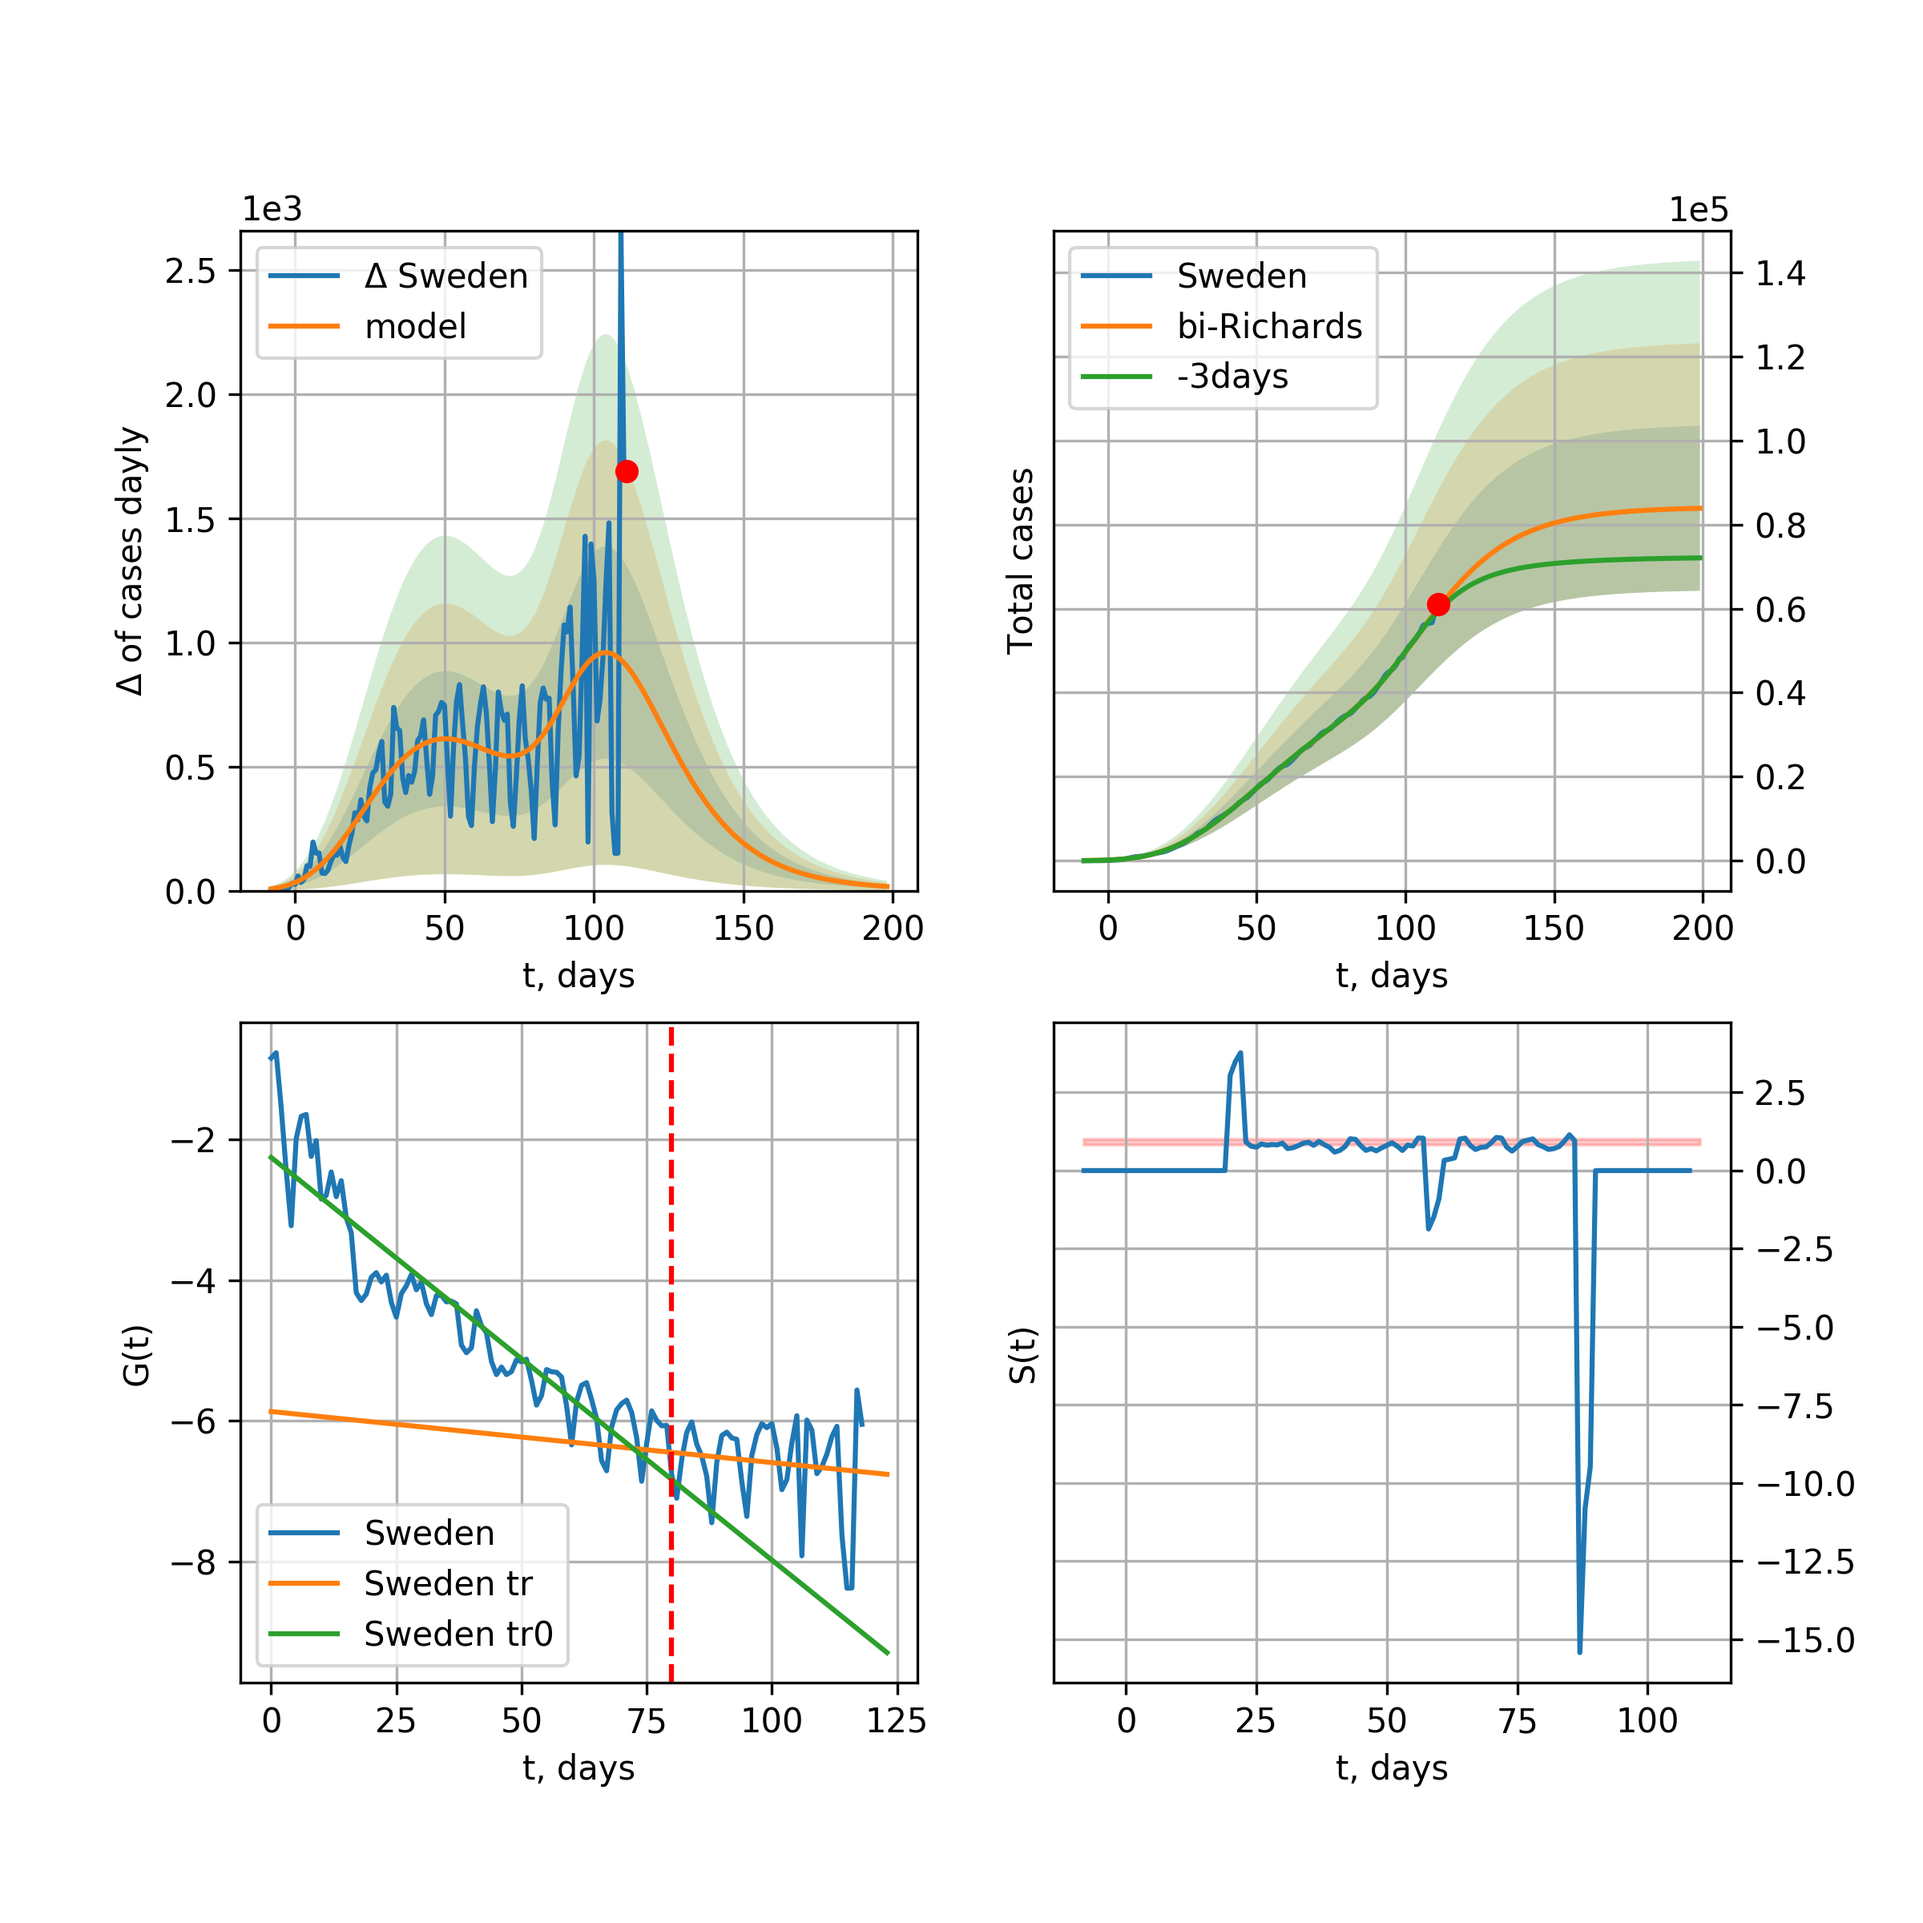
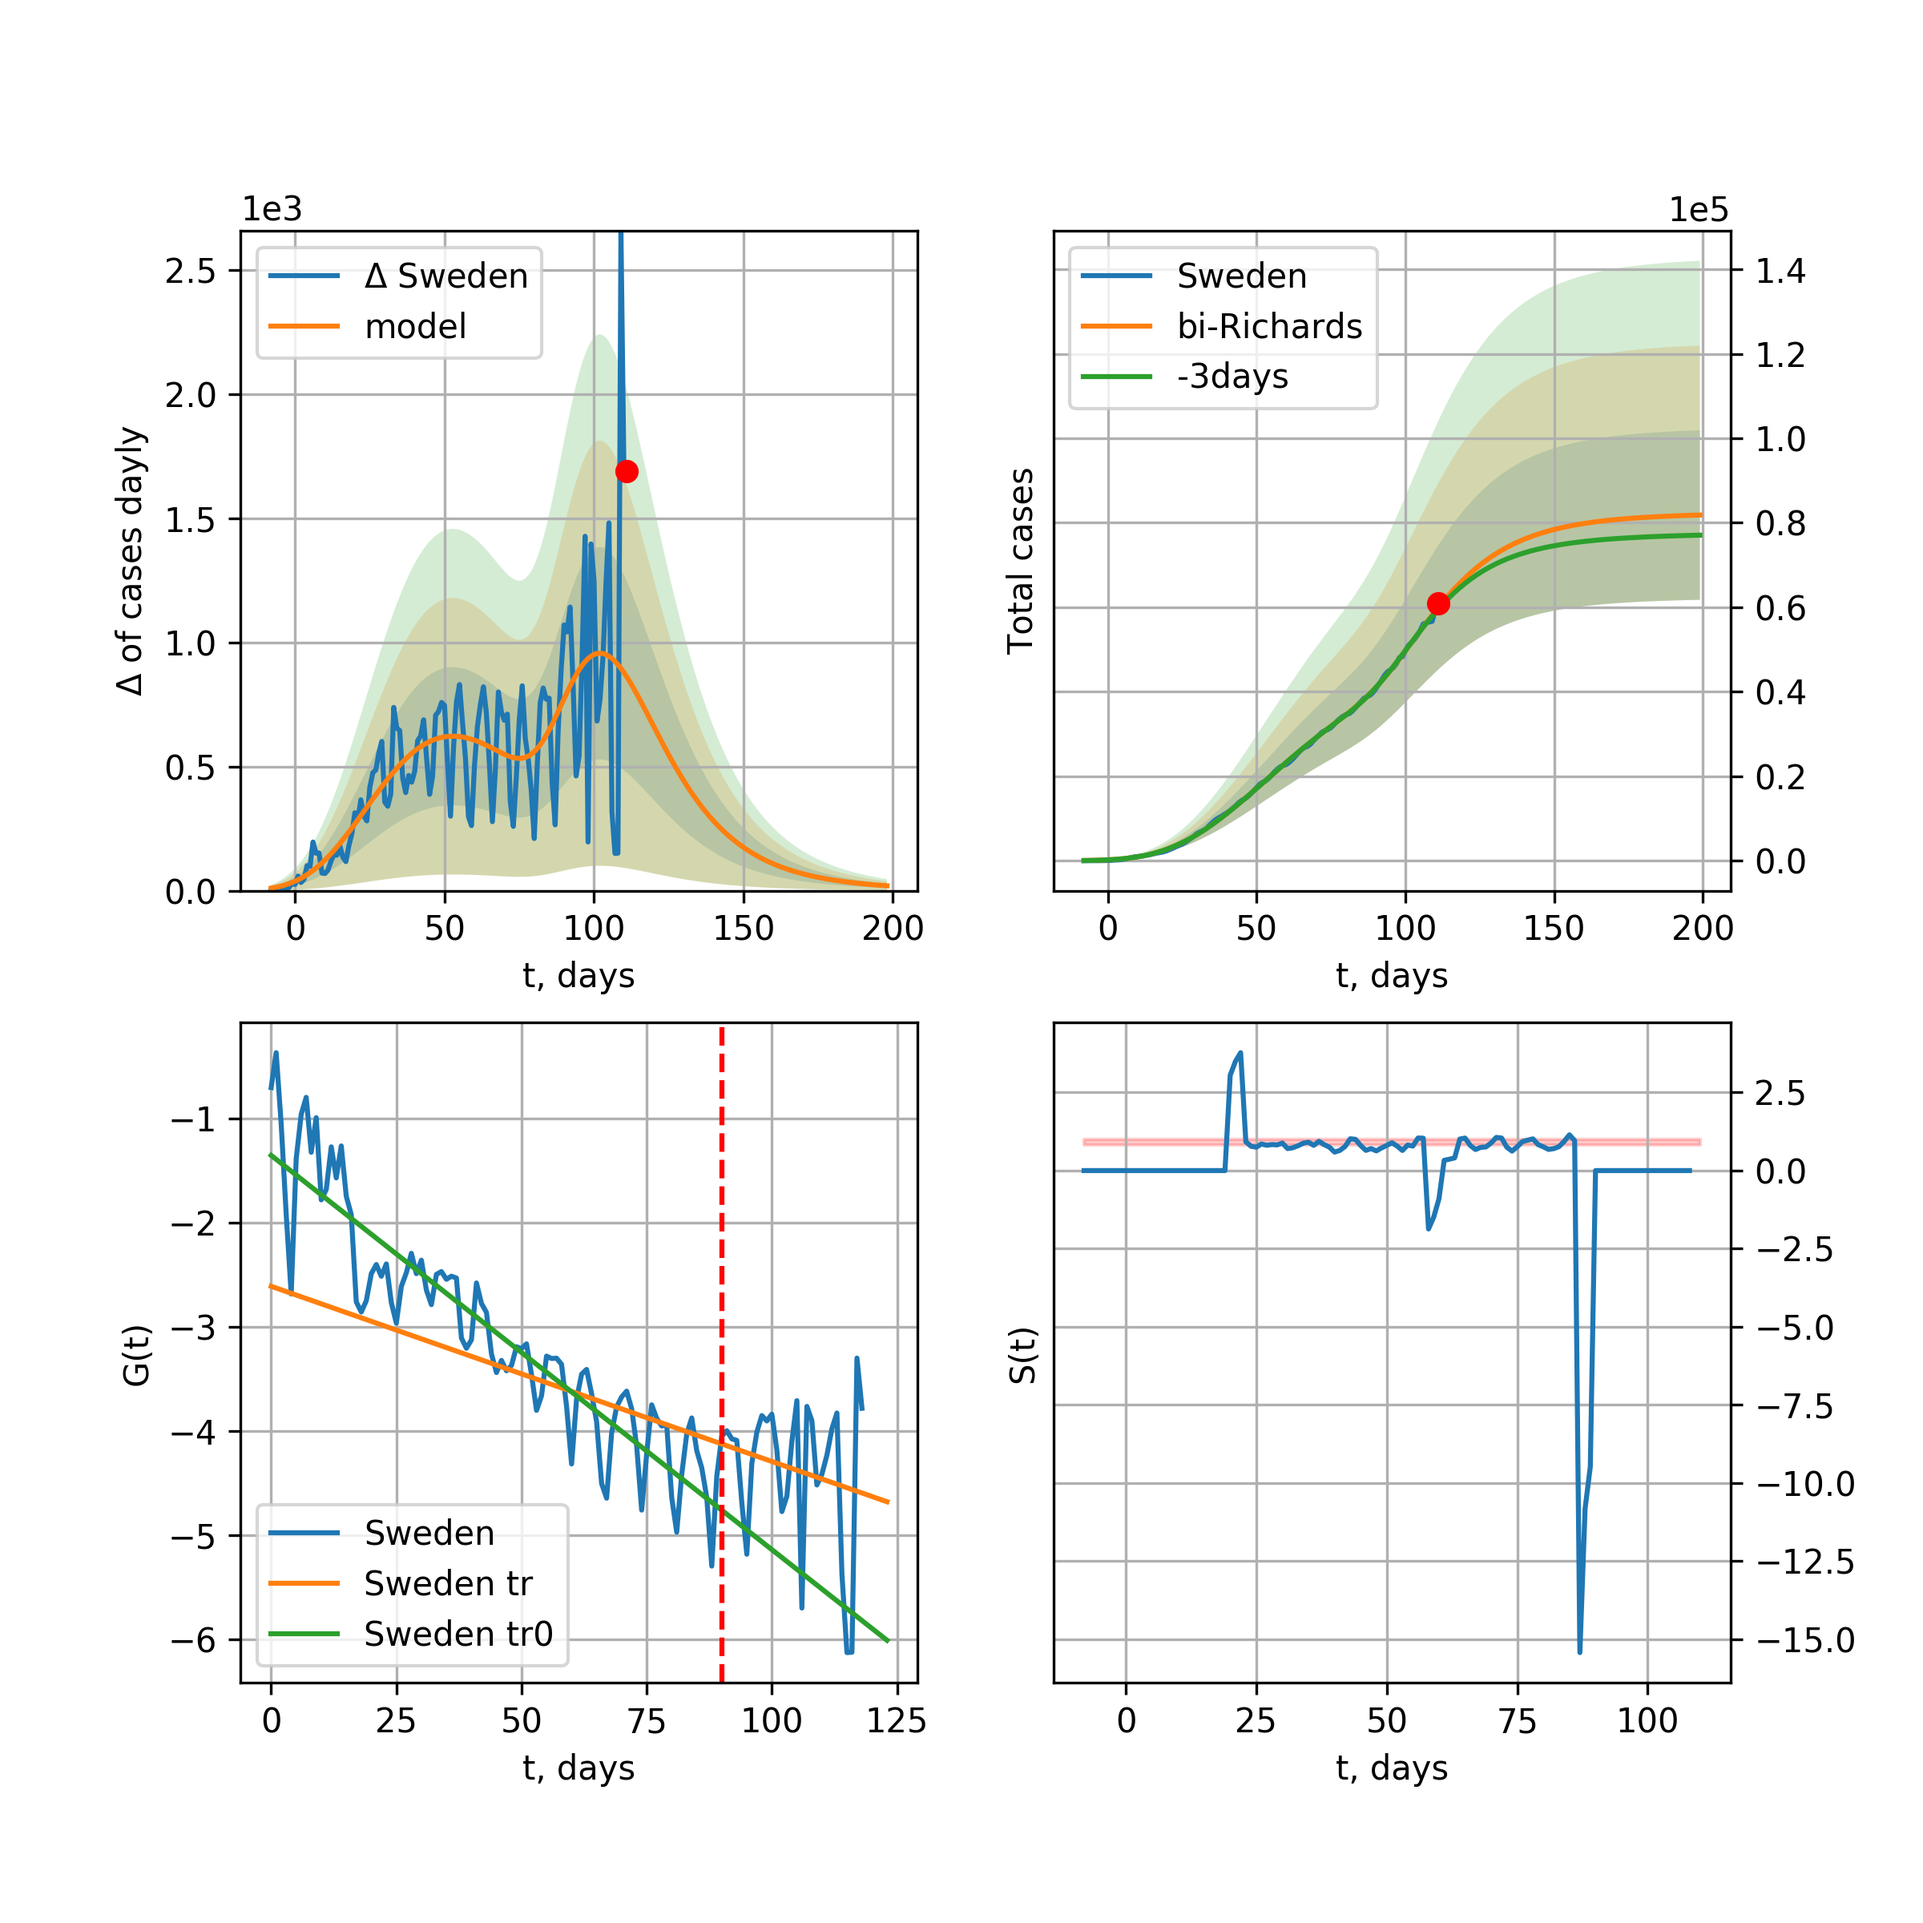
SW renew 2020-06-23

diff --git a/_site/index.html b/_site/index.html
@@ -561,20 +561,20 @@ trend coefficient of determination: 0.240123 <br />
     <img src="pictures/covidcasesSweden36_R.png" alt="hi" class="inline"/><br /> 
 
       Sweden data at: 2020-06-23<br />
-+3 day model MAPE: 0.012757<br />
++3 day model MAPE: 0.007743<br />
 model: bi-Richards<br />
-coeffs: [3.69221630e+04 2.75466904e-01 8.26804592e+01 2.23448786e-01]<br />
-rational stdev: 0.234063<br />
+coeffs: [3.08048287e+04 3.48297019e+00 3.95332213e+01 1.76766033e-02]<br />
+rational stdev: 0.245213<br />
 forecast at the end of period: +88 days<br />
-	 deltaDaycases: 16<br />
-	 total cases: 83878 ± 19632<br />
-	 total death: 7115 ± 4996<br />
-bi-Richards approximation splitting point: 80<br />
-trend coefficient of determination: 0.869074 <br />
- intercept: -2.258591 <br />
- slope: -0.057176<br />trend coefficient of determination: 0.016000 <br />
- intercept: -5.867352 <br />
- slope: -0.007249<br />
+	 deltaDaycases: 19<br />
+	 total cases: 81836 ± 20067<br />
+	 total death: 6942 ± 5106<br />
+bi-Richards approximation splitting point: 90<br />
+trend coefficient of determination: 0.853766 <br />
+ intercept: -1.355805 <br />
+ slope: -0.037810<br />trend coefficient of determination: 0.039993 <br />
+ intercept: -2.611409 <br />
+ slope: -0.016801<br />
           <br /> 
     Pakistan
     <br />
